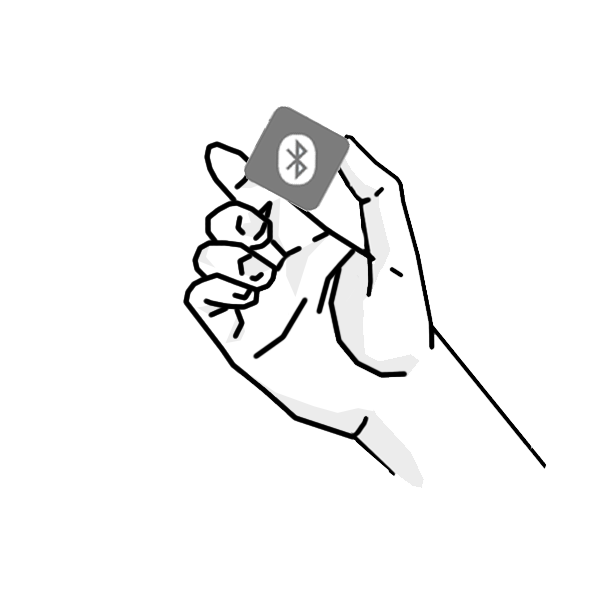
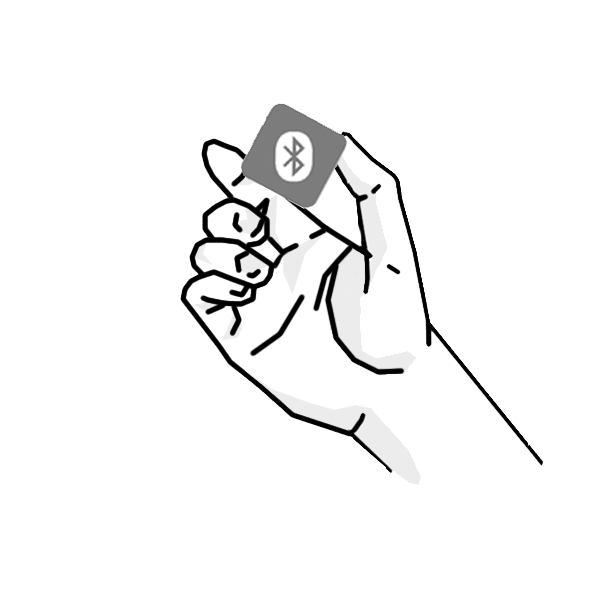
ble pattern recognition gif instructions are functional... moving onto actually collecting data during this period

diff --git a/leashed/lib/pattern/blePattern.dart b/leashed/lib/pattern/blePattern.dart
@@ -3,16 +3,165 @@ import 'package:flutter/material.dart';
 import 'package:flutter/services.dart';
 import 'package:leashed/navigation.dart';
 import 'package:leashed/widgets/instruction.dart';
+import 'package:percent_indicator/percent_indicator.dart' as percent;
+import 'package:percent_indicator/linear_percent_indicator.dart' as linearPercent;
 
-class BlePattern extends StatelessWidget {
+class BlePattern extends StatefulWidget {
+  final int secondsBetweenSteps;
+  final int secondsPerStep;
+
+  BlePattern({
+    this.secondsBetweenSteps: 2,
+    this.secondsPerStep: 5,
+  });
+
+  @override
+  _BlePatternState createState() => _BlePatternState();
+}
+
+class _BlePatternState extends State<BlePattern> {
+  int stepNumber = 1;
+  double progressThisStep = 0;
+
+  @override
+  void initState() {
+    super.initState();
+    process();
+  }
+
+  process() async{
+    await step(); //1->2 | 2->3 | 3->4
+    if(stepNumber <= 3){
+      process();
+    }
+    else{
+      Navigation.appRouter.navigateTo(
+        context, 
+        "addNew", 
+        transition: TransitionType.inFromBottom, 
+        replace: true,
+      );
+    }
+  }
+
+  step() async{ //should add to step number
+    //wait until the user processes the command
+    await Future.delayed(Duration(seconds: widget.secondsBetweenSteps));
+    if(mounted){
+      //grab data in this step
+      int secondsPerStep = widget.secondsPerStep;
+      int timeTillCompletion = secondsPerStep;
+      while(timeTillCompletion > 0){
+        //wait a second
+        await Future.delayed(Duration(seconds: 1));
+        if(mounted){
+          timeTillCompletion--;
+
+          //inform the user of the progress
+          int timePassed = secondsPerStep - timeTillCompletion;
+          progressThisStep = timePassed / secondsPerStep.toDouble();
+          print("progress: " + progressThisStep.toString());
+          setState(() {});
+        }
+      }
+
+      //move onto the next step
+      stepNumber++;
+    }
+  }
+
   @override
   Widget build(BuildContext context) {
-    return Instruction(
-      imageUrl: "assets/pngs/bleLeftTurn.png",
-      lines: ["Hold Your Device", "To The Left", "Of Your Phone"],
-      onDone: (){
-        print("pattern running");
-      },
+    //force portrait mode
+    SystemChrome.setPreferredOrientations([
+      DeviceOrientation.portraitUp,
+      DeviceOrientation.portraitDown
+    ]);
+    
+    //get size
+    double imageSize = MediaQuery.of(context).size.width;
+    double titleHeight = (MediaQuery.of(context).size.height - imageSize) / 2;
+    double indicatorPadding = 16;
+    double indicatorWidth = imageSize - (indicatorPadding * 2);
+
+    //instruction
+    String instructString;
+    String instructUrl;
+    switch(stepNumber){
+      case 1: 
+        instructString = "To The Left Of"; 
+        instructUrl = "assets/pngs/bleLeftTurn.png";
+        break;
+      case 2: 
+        instructString = "Over"; 
+        instructUrl = "assets/pngs/bleMiddleTurn.png";
+        break;
+      default: 
+        instructString = "To The Right Of"; 
+        instructUrl = "assets/pngs/bleRightTurn.png";
+        break;
+    }
+
+    //return widget
+    return Theme(
+      data: Theme.of(context).copyWith(
+        scaffoldBackgroundColor: Colors.white,
+      ),
+      child: Scaffold(
+        appBar: AppBar(
+          title: new Text("Pattern Recognition"),
+        ),
+        body: new Column(
+          children: <Widget>[
+            ConstrainedBox(
+              constraints: BoxConstraints(
+                minHeight: titleHeight,
+              ),
+              child: DefaultTextStyle(
+                style: TextStyle(
+                  fontSize: 28,
+                  fontWeight: FontWeight.bold,
+                  color: Navigation.blueGrey,
+                ),
+                child: Column(
+                  mainAxisAlignment: MainAxisAlignment.center,
+                  mainAxisSize: MainAxisSize.min,
+                  children: <Widget>[
+                    Text("Hold Your Device"),
+                    Text(
+                      instructString,
+                      style: TextStyle(
+                        fontSize: 32,
+                      ),
+                    ),
+                    Text("Your Phone")
+                  ],
+                ),
+              ),
+            ),
+            Container(
+              height: imageSize,
+              width: imageSize,
+              child: Image.asset(instructUrl),
+            ),
+            Expanded(
+              child: Container(
+                padding: EdgeInsets.fromLTRB(indicatorPadding, 0, indicatorPadding, 0),
+                alignment: Alignment.center,
+                child: percent.LinearPercentIndicator(
+                  animation: true,
+                  animationDuration: 100,
+                  animateFromLastPercent: true,
+                  percent: progressThisStep,
+                  width: indicatorWidth,
+                  lineHeight: 16, 
+                  progressColor: Colors.lightGreen,
+                )
+              ),
+            )
+          ],
+        ),
+      ),
     );
   }
 }

diff --git a/leashed/lib/navigation.dart b/leashed/lib/navigation.dart
@@ -1,5 +1,6 @@
 import 'package:flutter/material.dart';
 import 'package:fluro/fluro.dart';
+import 'package:leashed/addNew.dart';
 import 'package:leashed/home.dart';
 import 'package:leashed/pattern/bleGrab.dart';
 import 'package:leashed/pattern/blePattern.dart';
@@ -58,6 +59,7 @@ class Navigation extends StatelessWidget {
     router.define("phoneDown", handler: phoneDownHandler);
     router.define("bleGrab", handler: bleGrabHandler);
     router.define("blePattern", handler: blePatternHandler);
+    router.define("addNew", handler: addNewHandler);
   }
 
   //---------------------Router Handlers--------------------
@@ -96,6 +98,12 @@ class Navigation extends StatelessWidget {
   final blePatternHandler = new Handler(
     handlerFunc: (BuildContext context, Map<String, List<String>> params)  {
       return new BlePattern();
+    }
+  );
+
+  final addNewHandler = new Handler(
+    handlerFunc: (BuildContext context, Map<String, List<String>> params)  {
+      return new AddNew();
     }
   );
 }

diff --git a/leashed/lib/searchNew.dart b/leashed/lib/searchNew.dart
@@ -166,7 +166,11 @@ class _SearchNewState extends State<SearchNew> {
       //----------We Are Scanning
       ? FloatingActionButton.extended(
         onPressed: (){
-          Navigation.appRouter.navigateTo(context, "phoneDown", transition: TransitionType.inFromBottom);
+          Navigation.appRouter.navigateTo(
+            context, 
+            "phoneDown", 
+            transition: TransitionType.inFromBottom,
+          );
         },
         icon: new Icon(
           FontAwesomeIcons.questionCircle,

diff --git a/leashed/lib/pattern/phoneDown.dart b/leashed/lib/pattern/phoneDown.dart
@@ -11,7 +11,12 @@ class PhoneDown extends StatelessWidget {
       imageUrl: "assets/gifs/final/phoneOnTable.gif",
       lines: ["Place Your Phone", "On A Flat Surface"],
       onDone: (){
-        Navigation.appRouter.navigateTo(context, "bleGrab", transitionDuration: Duration.zero);
+        Navigation.appRouter.navigateTo(
+          context, 
+          "bleGrab", 
+          transitionDuration: Duration.zero,
+          replace: true,
+        );
       },
     );
   }

diff --git a/leashed/lib/pattern/bleGrab.dart b/leashed/lib/pattern/bleGrab.dart
@@ -10,7 +10,12 @@ Widget build(BuildContext context) {
       imageUrl: "assets/pngs/holdBle.png",
       lines: ["Grab Your", "Bluetooth Device"],
       onDone: (){
-        Navigation.appRouter.navigateTo(context, "blePattern", transitionDuration: Duration.zero);
+        Navigation.appRouter.navigateTo(
+          context, 
+          "blePattern", 
+          transitionDuration: Duration.zero,
+          replace: true,
+        );
       },
     );
   }

diff --git a/leashed/lib/addNew.dart b/leashed/lib/addNew.dart
@@ -1,0 +1,17 @@
+import 'package:flutter/material.dart';
+
+class AddNew extends StatelessWidget {
+  @override
+  Widget build(BuildContext context) {
+    return Scaffold(
+      appBar: AppBar(
+        title: new Text("Add New Device"),
+      ),
+      body: new Center(
+        child: Container(
+          child: new Text("Add New Device"),
+        ),
+      ),
+    );
+  }
+}
